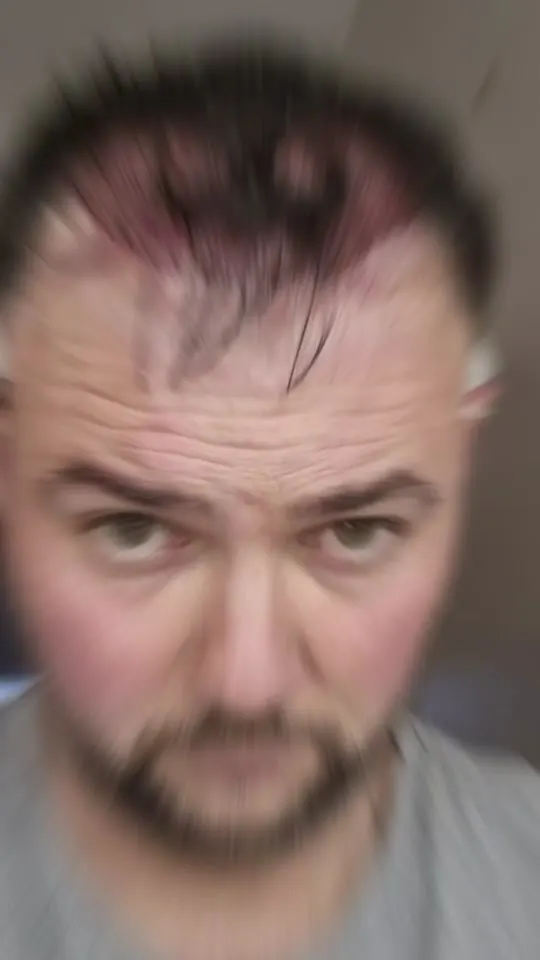
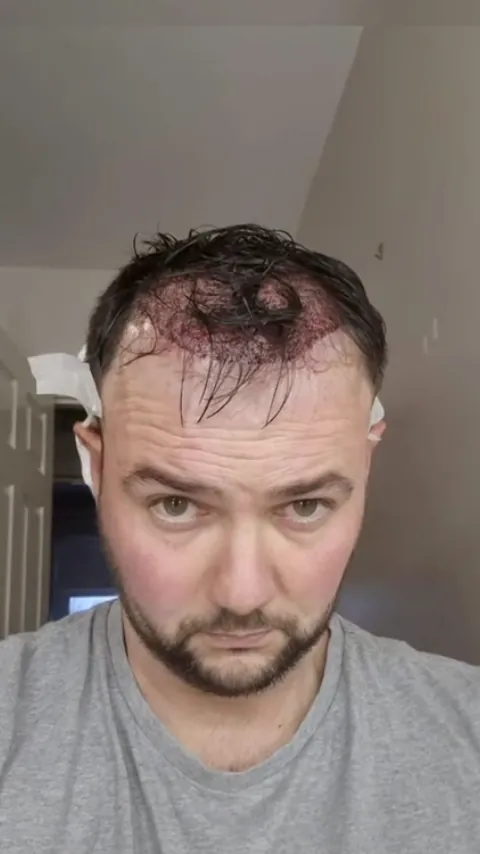
Use the second patient video in the hero and remove the first
The hero now plays TikTok video 7603048200831864086 with a sharp poster
frame. Video 7336997983357062433 is removed from the hero, the patient
videos section and the thank-you page, along with its poster image. The
two remaining videos sit side by side on all screen sizes.

Claude-Session: https://claude.ai/code/session_017rqZkzikJJSr9R8hay5qa1

diff --git a/index.html b/index.html
@@ -138,8 +138,8 @@
 
     <div class="hero__stage">
       <img class="hero__seal" src="img/tc-seal.webp" alt="" width="440" height="440" aria-hidden="true">
-      <button class="hero__video" type="button" data-video data-tiktok-id="7336997983357062433" aria-label="Play a patient's hair transplant story with sound">
-        <img src="img/videos/tiktok-1.webp" alt="" width="540" height="960">
+      <button class="hero__video" type="button" data-video data-tiktok-id="7603048200831864086" aria-label="Play a patient's hair transplant story with sound">
+        <img src="img/videos/tiktok-2.webp" alt="" width="480" height="854">
         <span class="hero__video-cap"><strong>Watch a patient's story</strong><span>Filmed after his surgery</span>
           <span class="hero__video-play"><svg viewBox="0 0 24 24" aria-hidden="true"><path d="M8 5v14l11-7z"/></svg>Play with sound</span></span>
       </button>
@@ -280,21 +280,14 @@
     </div>
     <ul class="vtest__grid m-scroll">
         <li class="vt">
-          <button class="vt__frame" type="button" data-tiktok="7336997983357062433" aria-label="Play patient video 1 from TikTok">
-            <img src="img/videos/tiktok-1.webp" alt="" width="540" height="960" loading="lazy">
-            <span class="vt__play"><svg viewBox="0 0 24 24" aria-hidden="true"><path d="M8 5v14l11-7z"/></svg>Play video</span>
-          </button>
-          <a class="vt__link" href="https://www.tiktok.com/@tajmeelclinicuk/video/7336997983357062433" target="_blank" rel="noopener">Watch on TikTok</a>
-        </li>
-        <li class="vt">
-          <button class="vt__frame" type="button" data-tiktok="7603048200831864086" aria-label="Play patient video 2 from TikTok">
-            <img src="img/videos/tiktok-2.webp" alt="" width="540" height="960" loading="lazy">
+          <button class="vt__frame" type="button" data-tiktok="7603048200831864086" aria-label="Play patient video 1 from TikTok">
+            <img src="img/videos/tiktok-2.webp" alt="" width="480" height="854" loading="lazy">
             <span class="vt__play"><svg viewBox="0 0 24 24" aria-hidden="true"><path d="M8 5v14l11-7z"/></svg>Play video</span>
           </button>
           <a class="vt__link" href="https://www.tiktok.com/@tajmeelclinicuk/video/7603048200831864086" target="_blank" rel="noopener">Watch on TikTok</a>
         </li>
         <li class="vt">
-          <button class="vt__frame" type="button" data-tiktok="7408839540112231713" aria-label="Play patient video 3 from TikTok">
+          <button class="vt__frame" type="button" data-tiktok="7408839540112231713" aria-label="Play patient video 2 from TikTok">
             <img src="img/videos/tiktok-3.webp" alt="" width="540" height="960" loading="lazy">
             <span class="vt__play"><svg viewBox="0 0 24 24" aria-hidden="true"><path d="M8 5v14l11-7z"/></svg>Play video</span>
           </button>

diff --git a/css/style.css b/css/style.css
@@ -300,7 +300,7 @@ p { margin: 0 0 1em; }
 .vtest__head { display: grid; grid-template-columns: 1fr 1fr; gap: 20px 60px; align-items: end; margin-bottom: 44px; }
 .vtest__head h2 { color: var(--white); max-width: 15ch; }
 .vtest__head p { margin: 0; max-width: 46ch; font-size: 18px; }
-.vtest__grid { display: grid; grid-template-columns: repeat(3, minmax(0, 340px)); justify-content: center; gap: 28px; }
+.vtest__grid { display: grid; grid-template-columns: repeat(2, minmax(0, 340px)); justify-content: center; gap: 36px; }
 .vt { min-width: 0; }
 .vt__link { display: inline-block; margin-top: 12px; font-size: 14px; font-weight: 700; color: #CDE7EE; text-decoration: underline; text-underline-offset: 3px; }
 .vt__link:hover { color: var(--white); }
@@ -633,7 +633,7 @@ button.vt__frame { display: block; width: 100%; padding: 0; cursor: pointer; }
 }
 
 @media (max-width: 1100px) {
-  .vtest__grid { grid-template-columns: repeat(3, minmax(0, 1fr)); gap: 18px; }
+  .vtest__grid { grid-template-columns: repeat(2, minmax(0, 300px)); gap: 24px; }
   .ba-card { flex-basis: calc(50% - 14px); }
   .whyfue__grid { grid-template-columns: 1fr; }
   .hero__in { grid-template-columns: minmax(0, 1fr) minmax(0, .9fr); }
@@ -944,3 +944,13 @@ button.vt__frame { display: block; width: 100%; padding: 0; cursor: pointer; }
 .form__head h3 { margin: 0; }
 .form__offer { display: flex; align-items: flex-start; gap: 10px; margin: 0; padding: 12px 14px; border-radius: var(--r-sm); background: var(--grad-haze); color: var(--ink); font-size: 15px; font-weight: 600; line-height: 1.45; }
 .form__offer span { flex: none; display: grid; place-items: center; width: 22px; height: 22px; margin-top: 1px; border-radius: 50%; background: var(--grad-cta); color: var(--white); font-weight: 800; font-size: 15px; line-height: 1; }
+
+/* two patient videos: show both side by side on mobile, no swiping */
+@media (max-width: 899px) {
+  .vtest__grid.m-scroll { display: grid !important; grid-template-columns: 1fr 1fr; gap: 12px; overflow: visible; margin: 0; padding: 0; }
+  .vtest__grid > .vt { flex-basis: auto; }
+  .vtest .m-hint { display: none !important; }
+  .vt__frame { border-width: 4px; }
+  .vt__play { bottom: 12px; padding: 6px 12px 6px 6px; font-size: 12px; }
+  .vt__play svg { width: 22px; height: 22px; }
+}

diff --git a/thank-you/index.html b/thank-you/index.html
@@ -81,7 +81,7 @@
           <span><strong>See real results</strong>Before and after photos of Dr Khalil's FUE patients.</span>
         </a></li>
         <li><a class="ty-card" href="/#videos">
-          <img src="/img/videos/tiktok-1.webp" alt="" width="540" height="960" loading="lazy">
+          <img src="/img/videos/tiktok-2.webp" alt="" width="480" height="854" loading="lazy">
           <span><strong>Hear from patients</strong>Video stories filmed at the clinic.</span>
         </a></li>
         <li><a class="ty-card" href="/#faq">
